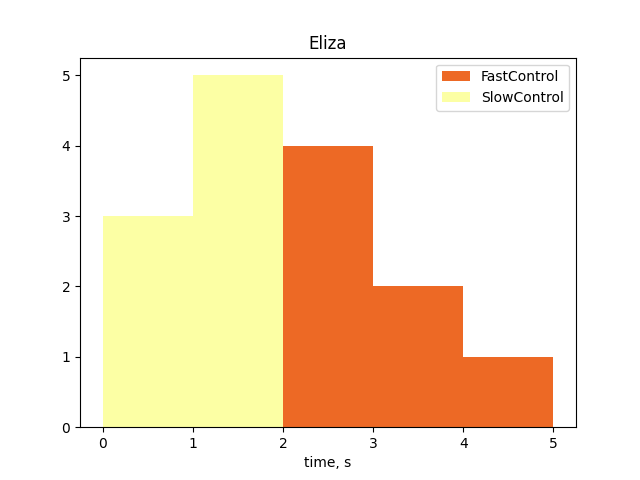
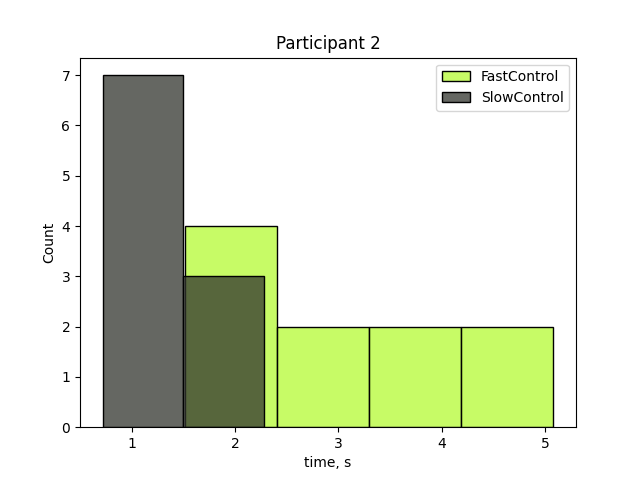
data analysis

diff --git a/DataAnalysis.py b/DataAnalysis.py
@@ -1,12 +1,13 @@
+import statistics
 
 import statsmodels.api as sm
 from statsmodels.formula.api import ols
-from statsmodels.sandbox.stats.multicomp import multipletests
-from scipy.stats import ttest_ind
+from scipy.stats import ttest_ind, kruskal, wilcoxon
 import  numpy as  np
 import os
 import matplotlib.pyplot as plt
 import matplotlib
+import seaborn as sns
 
 import pandas as pd
 pd.set_option('display.max_columns', None)
@@ -58,18 +59,30 @@ def textToList(line_list):
     return times
 
 
+def name_encode(name):
+    if name == "Amir":
+        return "Participant 1"
+    elif name == "Elizaveta" or name == "Eliza":
+
+        return "Participant 2"
+    elif name == "Oscar":
+        return "Participant 3"
+    elif name == "Nic":
+        return "Participant 4"
+    else: return None
+
 def plot_all_trials(data, name):
-    cmap  =  plt.get_cmap('inferno', 4)
-    hex_codes = [matplotlib.colors.rgb2hex(cmap(i)) for i in range(cmap.N)]
+    #cmap  =  plt.get_cmap('turbo', 4)
+    #hex_codes = [matplotlib.colors.rgb2hex(cmap(i)) for i in range(cmap.N)]
     plt.figure()
     for condition in data:
-        if condition[2] == "FES" and condition[1] == "Fast": col = hex_codes[0]
-        elif condition[2] == "FES" and condition[1] != "Fast": col = hex_codes[1]
-        elif condition[2] != "FES" and condition[1] == "Fast": col = hex_codes[2]
-        else:  col = hex_codes[3]
-        plt.title(condition[0])
+        if condition[2] == "FES" and condition[1] == "Fast": col = '#FF0000' #hex_codes[0]
+        elif condition[2] == "FES" and condition[1] != "Fast": col = '#FD9D00' #hex_codes[1]
+        elif condition[2] != "FES" and condition[1] == "Fast": col = "#B5FA33" #hex_codes[2]
+        else:  col = "#32342E" # hex_codes[3]
+        plt.title(name_encode(condition[0]))
         plt.xlabel("time, s")
-        plt.hist(condition[3], bins =  range(0, int(max(condition[3])) + 1), color=col,  label = condition[1] + condition[2])
+        sns.histplot(condition[3],   label = condition[1] + condition[2], color=col, binwidth=1)  #bins =  range(0, int(max(condition[3])) + 1),
         plt.legend()
     plt.savefig(name)
 
@@ -86,12 +99,24 @@ def plot_all(name):
     plot_keyword(participant_data_list, f"Data/Plots/{name}_FES", "FES", 2)
     plot_keyword(participant_data_list, f"Data/Plots/{name}_Control", "Control", 2)
 
+def try_z(res):
+    try:
+            z  = res.zstatistic
 
+    except:
+            z =  None
+    finally:
+        return z
 
 if __name__ == '__main__':
-    print(np.mean([2, 1, 3, 2]))
-    anovas =[]
-    for name in ["Amir", "Elizaveta", "Oscar", "Nic"]:
+    ANOVA = False
+    KRUSKAL = True
+    TTEST  = False
+    WILCOXON = True
+    names = ["Amir", "Elizaveta", "Oscar", "Nic"]
+
+
+    for name in names:
         participant_data_list = get_participant_data(name)
         plot_all(name)
 
@@ -104,34 +129,73 @@ if __name__ == '__main__':
                    "Reaction_time": participant_data_list[0][3]+participant_data_list[1][3]+participant_data_list[2][3]+participant_data_list[3][3]
                    }
 
-        # Two-way ANOVA
+
 
 
         df_data  = pd.DataFrame(df_data)
         df_data.to_csv(f"{name}_data.csv")
 
-        model = ols("Reaction_time  ~ C(Speed) + C(Stimulation) + C(Speed):C(Stimulation)", data=df_data).fit()
-        anova = sm.stats.anova_lm(model, typ = 2)
-        anovas.append(anova)
-        print("----------------------------------------")
-        print(f"Two-way  ANOVA for {name}: {anova}")
-        with open(f"Data/{name}_ANOVA", 'w') as file:
-            file.write(str(anova))
-        print("----------------------------------------")
-        print(df_data)
+        if KRUSKAL:
+            h, p = kruskal(participant_data_list[0][3], participant_data_list[1][3], participant_data_list[2][3], participant_data_list[3][3])
+            print(f"For {name}, kruskal-wallis H test shows {h} statistic, p-value  is {p}")
 
 
-    for name in ["Elizaveta", "Amir"]:
-        data = pd.read_csv(f"{name}_data.csv")
-        # Filter data and select column
-        fast_control_rt = data[(data['Speed'] == 'Fast') & (data['Stimulation'] == 'Control')][
-            'Reaction_time']
 
-        fast_fes_rt = data[(data['Speed'] == 'Fast') & (data['Stimulation'] == 'FES')][
-            'Reaction_time']
 
-        t_stat, p_value = ttest_ind(fast_control_rt, fast_fes_rt)
-        print(f"{name} -  T-test result for FastControl vs FastFES: t-statistic = {t_stat}, p-value = {p_value}")
+        if ANOVA:
+            model = ols("Reaction_time  ~ C(Speed) + C(Stimulation) + C(Speed):C(Stimulation)", data=df_data).fit()
+            anova = sm.stats.anova_lm(model, typ = 2)
+
+            print("----------------------------------------")
+            print(f"Two-way  ANOVA for {name}: {anova}")
+            with open(f"Data/{name}_ANOVA", 'w') as file:
+                file.write(str(anova))
+            print("----------------------------------------")
+
+
+
+
+
+
+# post-hoc  testing for groups that showed significance in ANOVA
+    if True:
+        for name in names:
+            data = pd.read_csv(f"{name}_data.csv")
+            # Filter data and select column
+            fast_control_rt = data[(data['Speed'] == 'Fast') & (data['Stimulation'] == 'Control')][
+                'Reaction_time']
+
+            fast_fes_rt = data[(data['Speed'] == 'Fast') & (data['Stimulation'] == 'FES')][
+                'Reaction_time']
+
+
+            slow_control_rt = data[(data['Speed'] == 'Slow') & (data['Stimulation'] == 'Control')][
+                'Reaction_time']
+
+            slow_fes_rt = data[(data['Speed'] == 'Slow') & (data['Stimulation'] == 'FES')][
+                'Reaction_time']
+
+            if TTEST:
+                t_stat, p_value = ttest_ind(fast_control_rt, fast_fes_rt)
+                print(f"{name} -  T-test result for FastControl vs FastFES: t-statistic = {t_stat}, p-value = {p_value}")
+                t_stat, p_value = ttest_ind(slow_control_rt,slow_fes_rt)
+                print(f"{name} -  T-test result for SlowControl vs SlowFES: t-statistic = {t_stat}, p-value = {p_value}")
+
+            if WILCOXON:
+                res  = wilcoxon(fast_control_rt, fast_fes_rt)
+
+                print(f"{name} -  Wilcoxon result for FastControl vs FastFES: statistic = {res.statistic}, p-value = {res.pvalue}, "
+                      f"median  FastControl =  {statistics.median(fast_control_rt)}, "
+                      f"median FastFES = {statistics.median(fast_fes_rt)}")
+
+                res = wilcoxon(slow_control_rt, slow_fes_rt)
+                print(f"{name} -  Wilcoxon result for  SlowControl vs SlowFES: statistic = {res.statistic}, p-value = {res.pvalue}"
+                      f"median SlowControl = {statistics.median(slow_control_rt)}, median SlowFES = {statistics.median(slow_fes_rt)}")
+
+                res = wilcoxon(slow_control_rt, fast_control_rt)
+                print(f"{name} -  Wilcoxon result for  SlowControl vs FastControl: statistic = {res.statistic}, p-value = {res.pvalue}, "
+                      f"median SlowControl = {statistics.median(slow_control_rt)}, median FastControl = {statistics.median(fast_control_rt)}")
+
 
 
 
